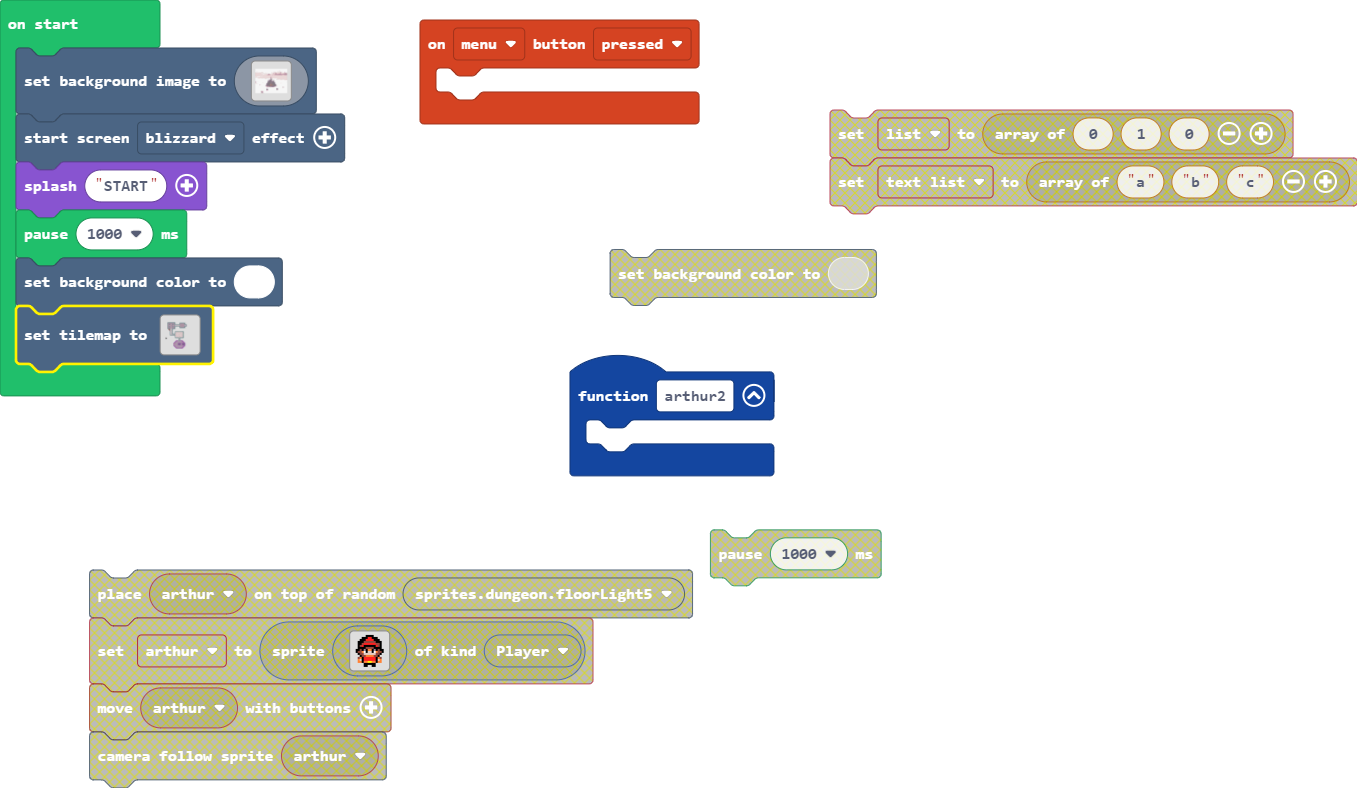
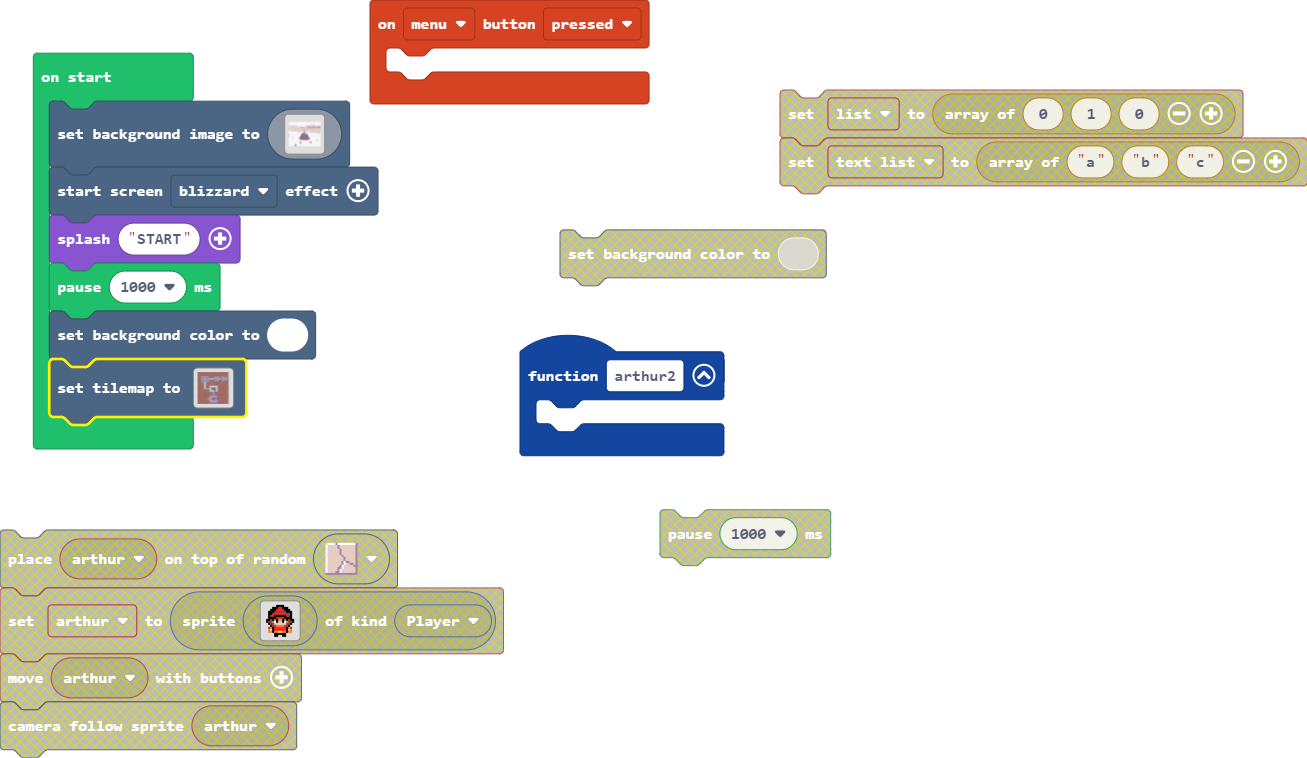
Update main.blocks, tilemap.g.jres, tilemap.g.ts

diff --git a/tilemap.g.ts b/tilemap.g.ts
@@ -3,9 +3,29 @@ namespace myTiles {
     //% fixedInstance jres blockIdentity=images._tile
     export const transparency16 = image.ofBuffer(hex``);
     //% fixedInstance jres blockIdentity=images._tile
-    export const tile3 = image.ofBuffer(hex``);
-    //% fixedInstance jres blockIdentity=images._tile
     export const tile1 = image.ofBuffer(hex``);
+    //% fixedInstance jres blockIdentity=images._tile
+    export const tile2 = image.ofBuffer(hex``);
+    //% fixedInstance jres blockIdentity=images._tile
+    export const tile4 = image.ofBuffer(hex``);
+    //% fixedInstance jres blockIdentity=images._tile
+    export const tile5 = image.ofBuffer(hex``);
+    //% fixedInstance jres blockIdentity=images._tile
+    export const tile6 = image.ofBuffer(hex``);
+    //% fixedInstance jres blockIdentity=images._tile
+    export const tile7 = image.ofBuffer(hex``);
+    //% fixedInstance jres blockIdentity=images._tile
+    export const tile8 = image.ofBuffer(hex``);
+    //% fixedInstance jres blockIdentity=images._tile
+    export const tile9 = image.ofBuffer(hex``);
+    //% fixedInstance jres blockIdentity=images._tile
+    export const tile10 = image.ofBuffer(hex``);
+    //% fixedInstance jres blockIdentity=images._tile
+    export const tile11 = image.ofBuffer(hex``);
+    //% fixedInstance jres blockIdentity=images._tile
+    export const tile12 = image.ofBuffer(hex``);
+    //% fixedInstance jres blockIdentity=images._tile
+    export const tile13 = image.ofBuffer(hex``);
 
     helpers._registerFactory("tilemap", function(name: string) {
         switch(helpers.stringTrim(name)) {
@@ -142,72 +162,68 @@ namespace myTiles {
 ..............................................................
 `, [myTiles.transparency16,sprites.dungeon.floorDark2,sprites.dungeon.greenOuterNorthWest,sprites.dungeon.floorDarkDiamond,sprites.dungeon.floorLightMoss], TileScale.Sixteen);
             case "level3":
[1 lines of base64/hex data omitted]
-................................................................
-................................................................
-................................................................
-................................................................
-................................................................
-................................................................
-................................................................
-................................................................
-................................................................
-................................................................
-................................................................
-................................................................
-................................................................
-................................................................
-................................................................
-................................................................
-................................................................
-................................................................
-................................................................
-................................................................
-................................................................
-................................................................
-................................................................
-................................................................
-................................................................
-................................................................
-................................................................
-................................................................
-................................................................
-................................................................
-................................................................
-................................................................
-................................................................
-................................................................
-................................................................
-................................................................
-................................................................
-................................................................
-................................................................
-................................................................
-................................................................
-................................................................
-................................................................
-................................................................
-................................................................
-................................................................
-................................................................
-................................................................
-................................................................
-................................................................
-................................................................
-................................................................
-................................................................
-................................................................
-................................................................
-................................................................
-................................................................
-................................................................
-................................................................
-................................................................
-................................................................
-................................................................
-................................................................
-................................................................
-`, [myTiles.transparency16,sprites.dungeon.greenOuterSouthEast,sprites.dungeon.greenOuterSouth0,sprites.dungeon.greenOuterSouthWest,sprites.dungeon.greenOuterWest1,sprites.dungeon.greenOuterWest0,sprites.dungeon.greenOuterNorthWest,sprites.dungeon.greenOuterNorth0,sprites.dungeon.greenOuterNorthEast,sprites.dungeon.greenOuterEast0,sprites.dungeon.floorLight4,sprites.dungeon.floorLight5,sprites.dungeon.floorMixed,sprites.dungeon.greenOuterSouth2,sprites.dungeon.greenOuterNorth2,sprites.dungeon.greenOuterEast2,sprites.dungeon.greenOuterWest2,sprites.dungeon.greenOuterEast1,sprites.dungeon.purpleOuterNorth1,sprites.dungeon.purpleOuterNorthWest,sprites.dungeon.purpleOuterNorthEast,sprites.dungeon.purpleOuterWest1,sprites.dungeon.purpleOuterEast0,sprites.dungeon.purpleOuterSouth1,sprites.dungeon.darkGroundSouthWest1,sprites.dungeon.purpleOuterNorth2,sprites.dungeon.purpleOuterSouthWest,sprites.dungeon.darkGroundCenter,sprites.dungeon.purpleOuterSouthEast,sprites.dungeon.purpleOuterSouth2,sprites.dungeon.floorDark0,sprites.dungeon.floorDarkDiamond,sprites.dungeon.floorDark4,sprites.dungeon.floorDark1,sprites.dungeon.floorDark5,sprites.dungeon.stairSouth,sprites.dungeon.floorLight3,sprites.builtin.forestTiles10,sprites.dungeon.chestClosed,sprites.dungeon.greenInnerSouthWest,sprites.dungeon.floorLightMoss,sprites.dungeon.greenInnerNorthWest,sprites.dungeon.greenInnerNorthEast,sprites.dungeon.greenOuterNorth1,sprites.dungeon.floorDark3,sprites.dungeon.greenInnerSouthEast,myTiles.tile1,sprites.dungeon.floorLight0,sprites.dungeon.stairLarge,sprites.dungeon.purpleSwitchUp], TileScale.Sixteen);
[1 lines of base64/hex data omitted]
+..........................................................
+..........................................................
+..........................................................
+..........................................................
+..........................................................
+..........................................................
+..........................................................
+.......222222222222222.......................22222........
+.......2.............2.........22222222222...2...22.......
+.......2.............2.........2.........2...2....2222222.
+.......2..22.....22..2.........2.........2...2..........2.
+.......2..22.....22..22222222222.........22222..........2.
+.......2................................................2.
+.......2................................................2.
+.......2.............22222222222.........22222..........2.
+.......2..22.....22..2.........2.........2...2..........2.
+.......2..22.....22..2.........2.........2...2....2222222.
+.......2.............2.........22222222222...2...22.......
+.......2.............2.......................22222........
+.......222222...222222....................................
+............2...2.........................................
+............2...2.........................................
+............2...2.........................................
+............2...2.........................................
+............2...2.........................................
+............2...2.....22222222222222222...................
+............2...2.....2...............2...................
+............2...2.....2...............2...................
+............2...2.....2...............2...................
+............2...2.....2...222222222...2...................
+............2...2222222...2.......2...2...................
+............2.............2.......2...2...................
+............22222222222...2.......2...2...................
+......................2...2222222.2...2...................
+......................2.........2.2...2...................
+......................2.........2.2...2...................
+......................2.........2.2...2...................
+......................22222222.22222222...................
+.............................2.2..........................
+.............................2.2..........................
+.............................2.2..........................
+.............................2.2..........................
+.............................2.2..........................
+........................222222.222222.....................
+.......................222.........222....................
+......................222...........222...................
+.....................222.............222..................
+....................222...............222.................
+...................222......22222222222222................
+...................2........2....2..2....2................
+...................2........2....2..2....2................
+...................2........2....2..2....2................
+...................2........222222..222222................
+...................222.................222................
+.....................22...............222.................
+.....................222.............222..................
+......................222...........222...................
+.......................222.........222....................
+........................2222222222222.....................
+..........................................................
+`, [myTiles.transparency16,sprites.dungeon.greenOuterSouthEast,sprites.dungeon.greenOuterSouth0,sprites.dungeon.greenOuterSouthWest,sprites.dungeon.greenOuterWest1,sprites.dungeon.greenOuterWest0,sprites.dungeon.greenOuterNorthWest,sprites.dungeon.greenOuterNorth0,sprites.dungeon.greenOuterNorthEast,sprites.dungeon.greenOuterEast0,sprites.dungeon.floorLight4,sprites.dungeon.floorLight5,sprites.dungeon.floorMixed,sprites.dungeon.greenOuterSouth2,sprites.dungeon.greenOuterNorth2,sprites.dungeon.greenOuterEast2,sprites.dungeon.greenOuterWest2,sprites.dungeon.greenOuterEast1,sprites.dungeon.purpleOuterNorth1,sprites.dungeon.purpleOuterNorthWest,sprites.dungeon.purpleOuterNorthEast,sprites.dungeon.purpleOuterWest1,sprites.dungeon.purpleOuterEast0,sprites.dungeon.purpleOuterSouth1,sprites.dungeon.darkGroundSouthWest1,sprites.dungeon.purpleOuterNorth2,sprites.dungeon.purpleOuterSouthWest,sprites.dungeon.darkGroundCenter,sprites.dungeon.purpleOuterSouthEast,sprites.dungeon.purpleOuterSouth2,sprites.dungeon.floorDark0,sprites.dungeon.floorDarkDiamond,sprites.dungeon.floorDark4,sprites.dungeon.floorDark1,sprites.dungeon.floorDark5,sprites.dungeon.stairSouth,sprites.dungeon.chestClosed,sprites.dungeon.greenInnerSouthWest,sprites.dungeon.floorLightMoss,sprites.dungeon.greenInnerNorthWest,sprites.dungeon.greenInnerNorthEast,sprites.dungeon.greenOuterNorth1,sprites.dungeon.floorDark3,sprites.dungeon.greenInnerSouthEast,myTiles.tile1,sprites.dungeon.floorLight0,sprites.dungeon.stairLarge,sprites.dungeon.purpleSwitchUp,myTiles.tile5,myTiles.tile6,myTiles.tile7,sprites.dungeon.purpleInnerSouthEast,sprites.dungeon.purpleInnerSouthWest,sprites.dungeon.purpleInnerNorthWest,sprites.dungeon.purpleInnerNorthEast,myTiles.tile12,myTiles.tile13,sprites.dungeon.darkGroundSouth], TileScale.Sixteen);
         }
         return null;
     })
@@ -215,10 +231,30 @@ namespace myTiles {
     helpers._registerFactory("tile", function(name: string) {
         switch(helpers.stringTrim(name)) {
             case "transparency16":return transparency16;
-            case "myTile1":
-            case "tile3":return tile3;
             case "myTile":
             case "tile1":return tile1;
+            case "myTile0":
+            case "tile2":return tile2;
+            case "myTile2":
+            case "tile4":return tile4;
+            case "myTile3":
+            case "tile5":return tile5;
+            case "myTile4":
+            case "tile6":return tile6;
+            case "myTile5":
+            case "tile7":return tile7;
+            case "myTile6":
+            case "tile8":return tile8;
+            case "myTile7":
+            case "tile9":return tile9;
+            case "myTile8":
+            case "tile10":return tile10;
+            case "myTile9":
+            case "tile11":return tile11;
+            case "myTile10":
+            case "tile12":return tile12;
+            case "myTile11":
+            case "tile13":return tile13;
         }
         return null;
     })
